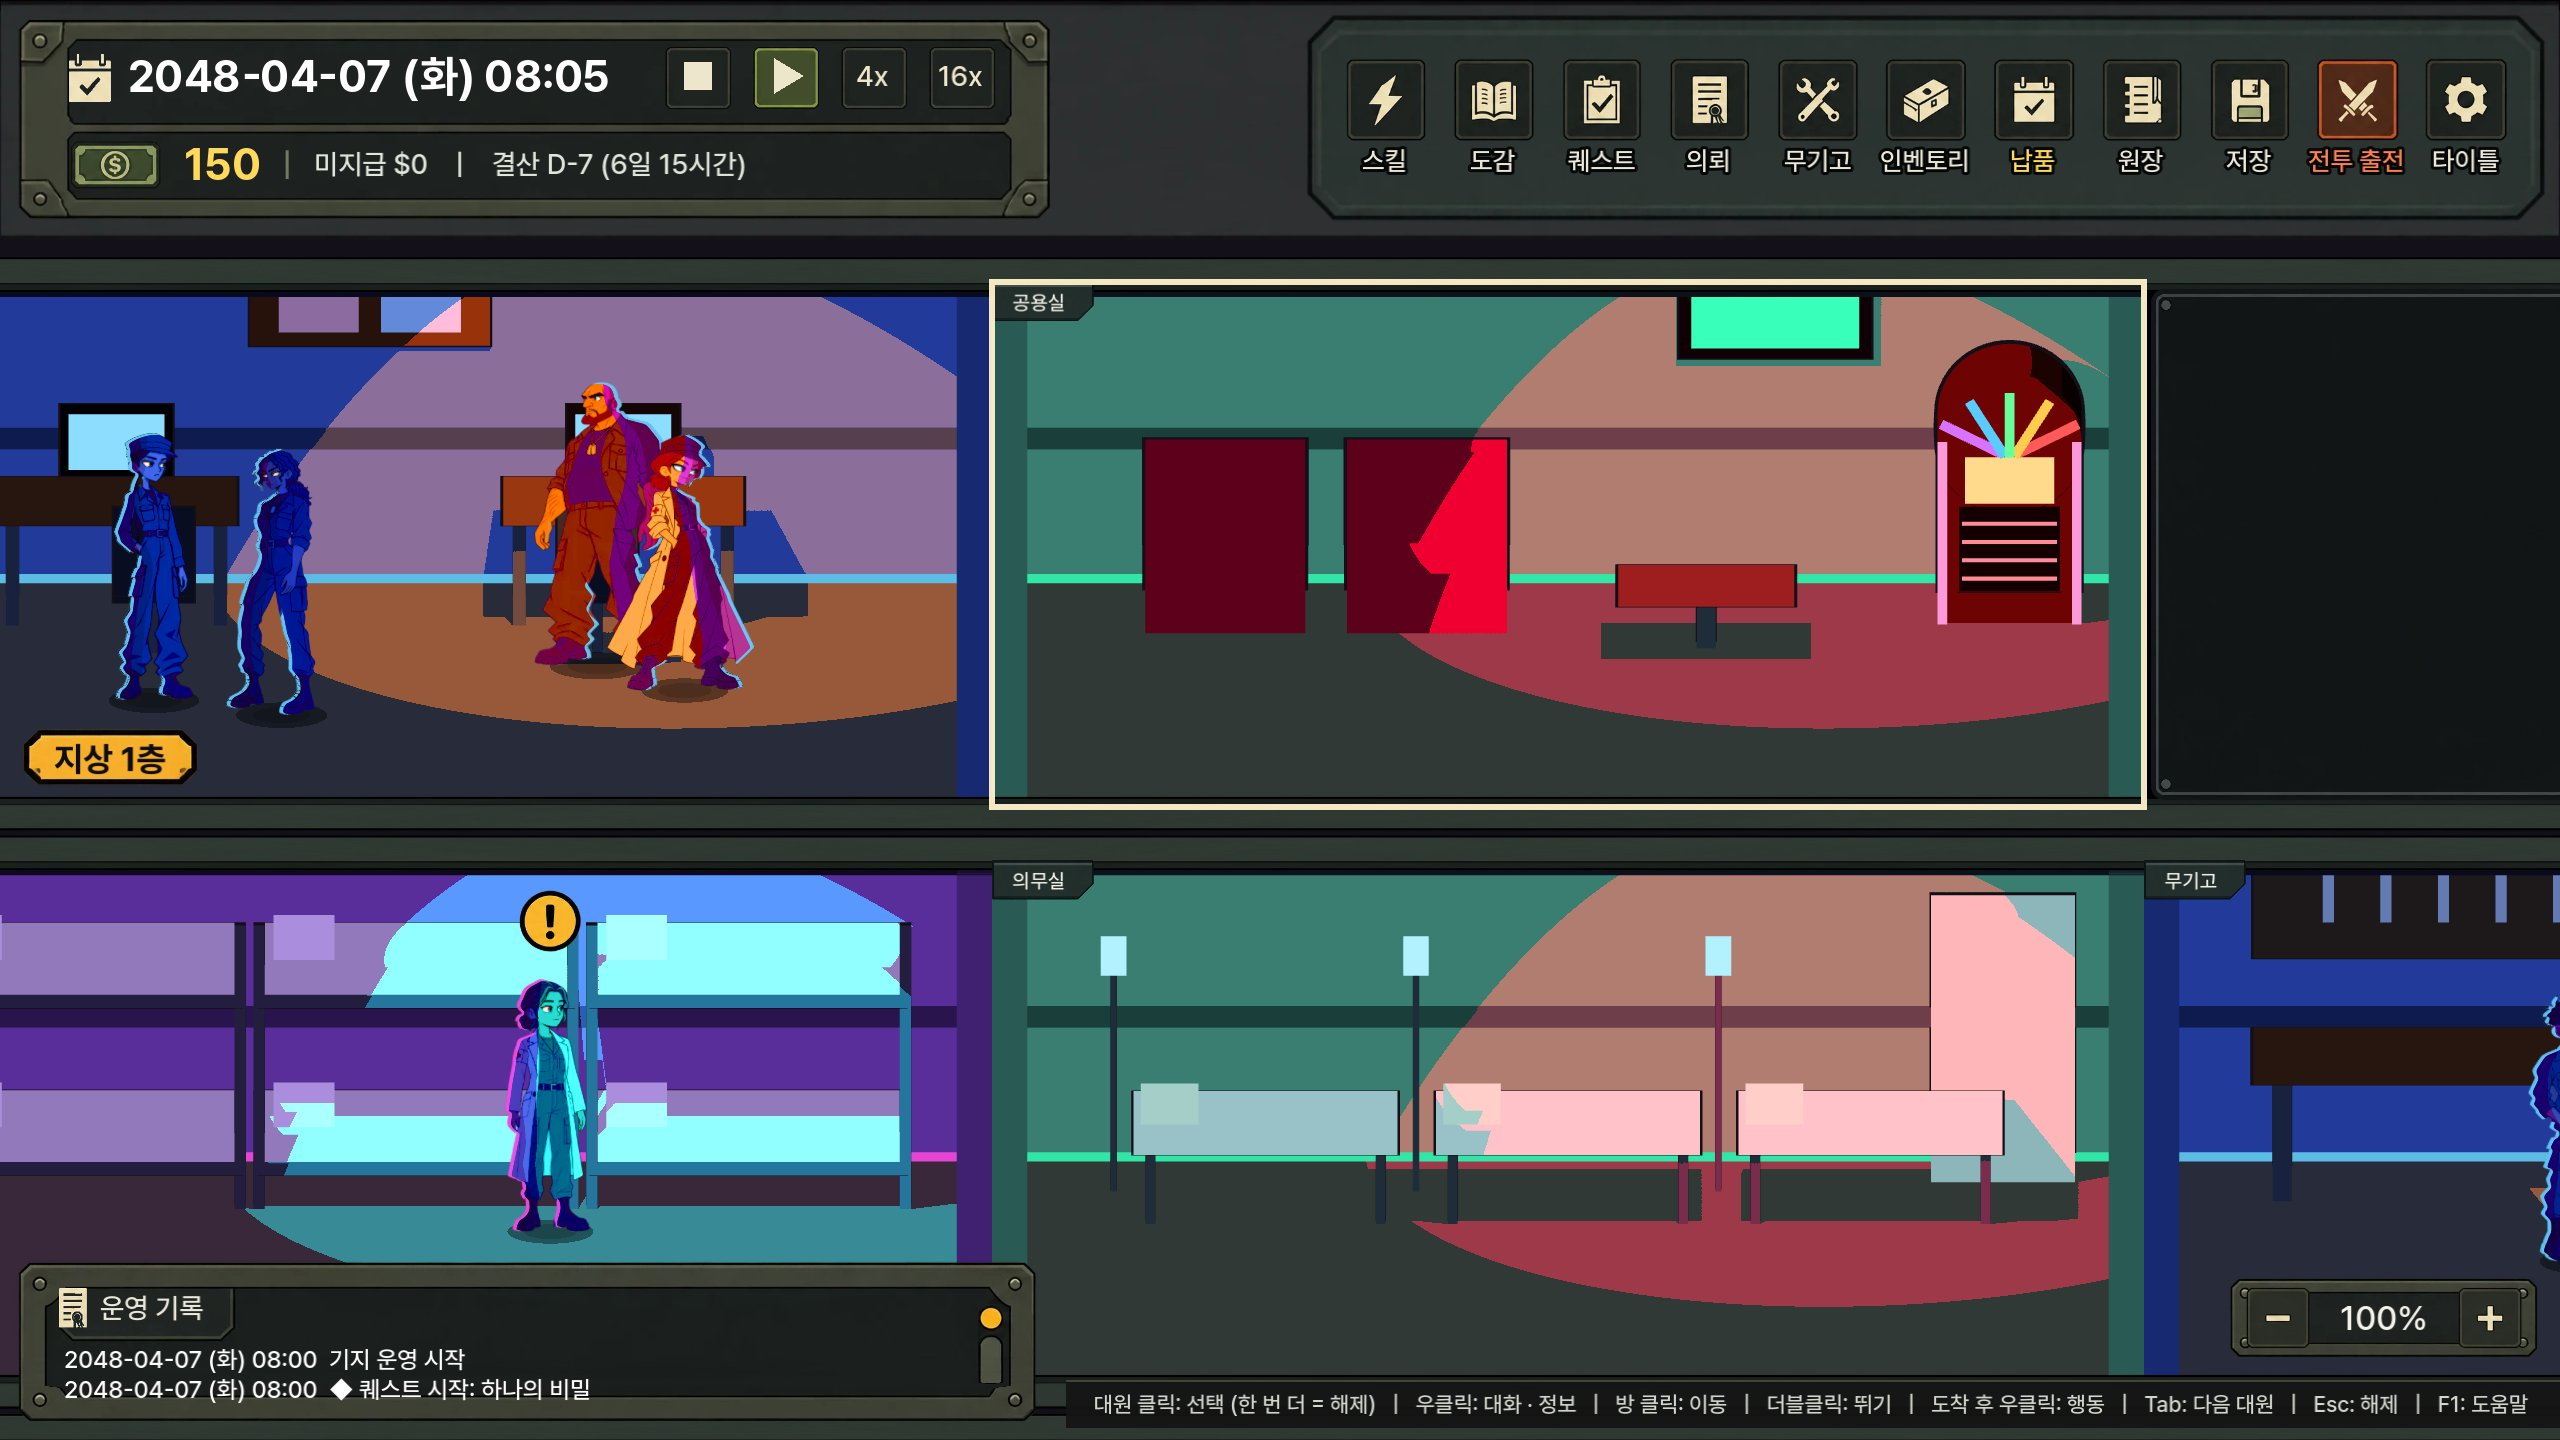
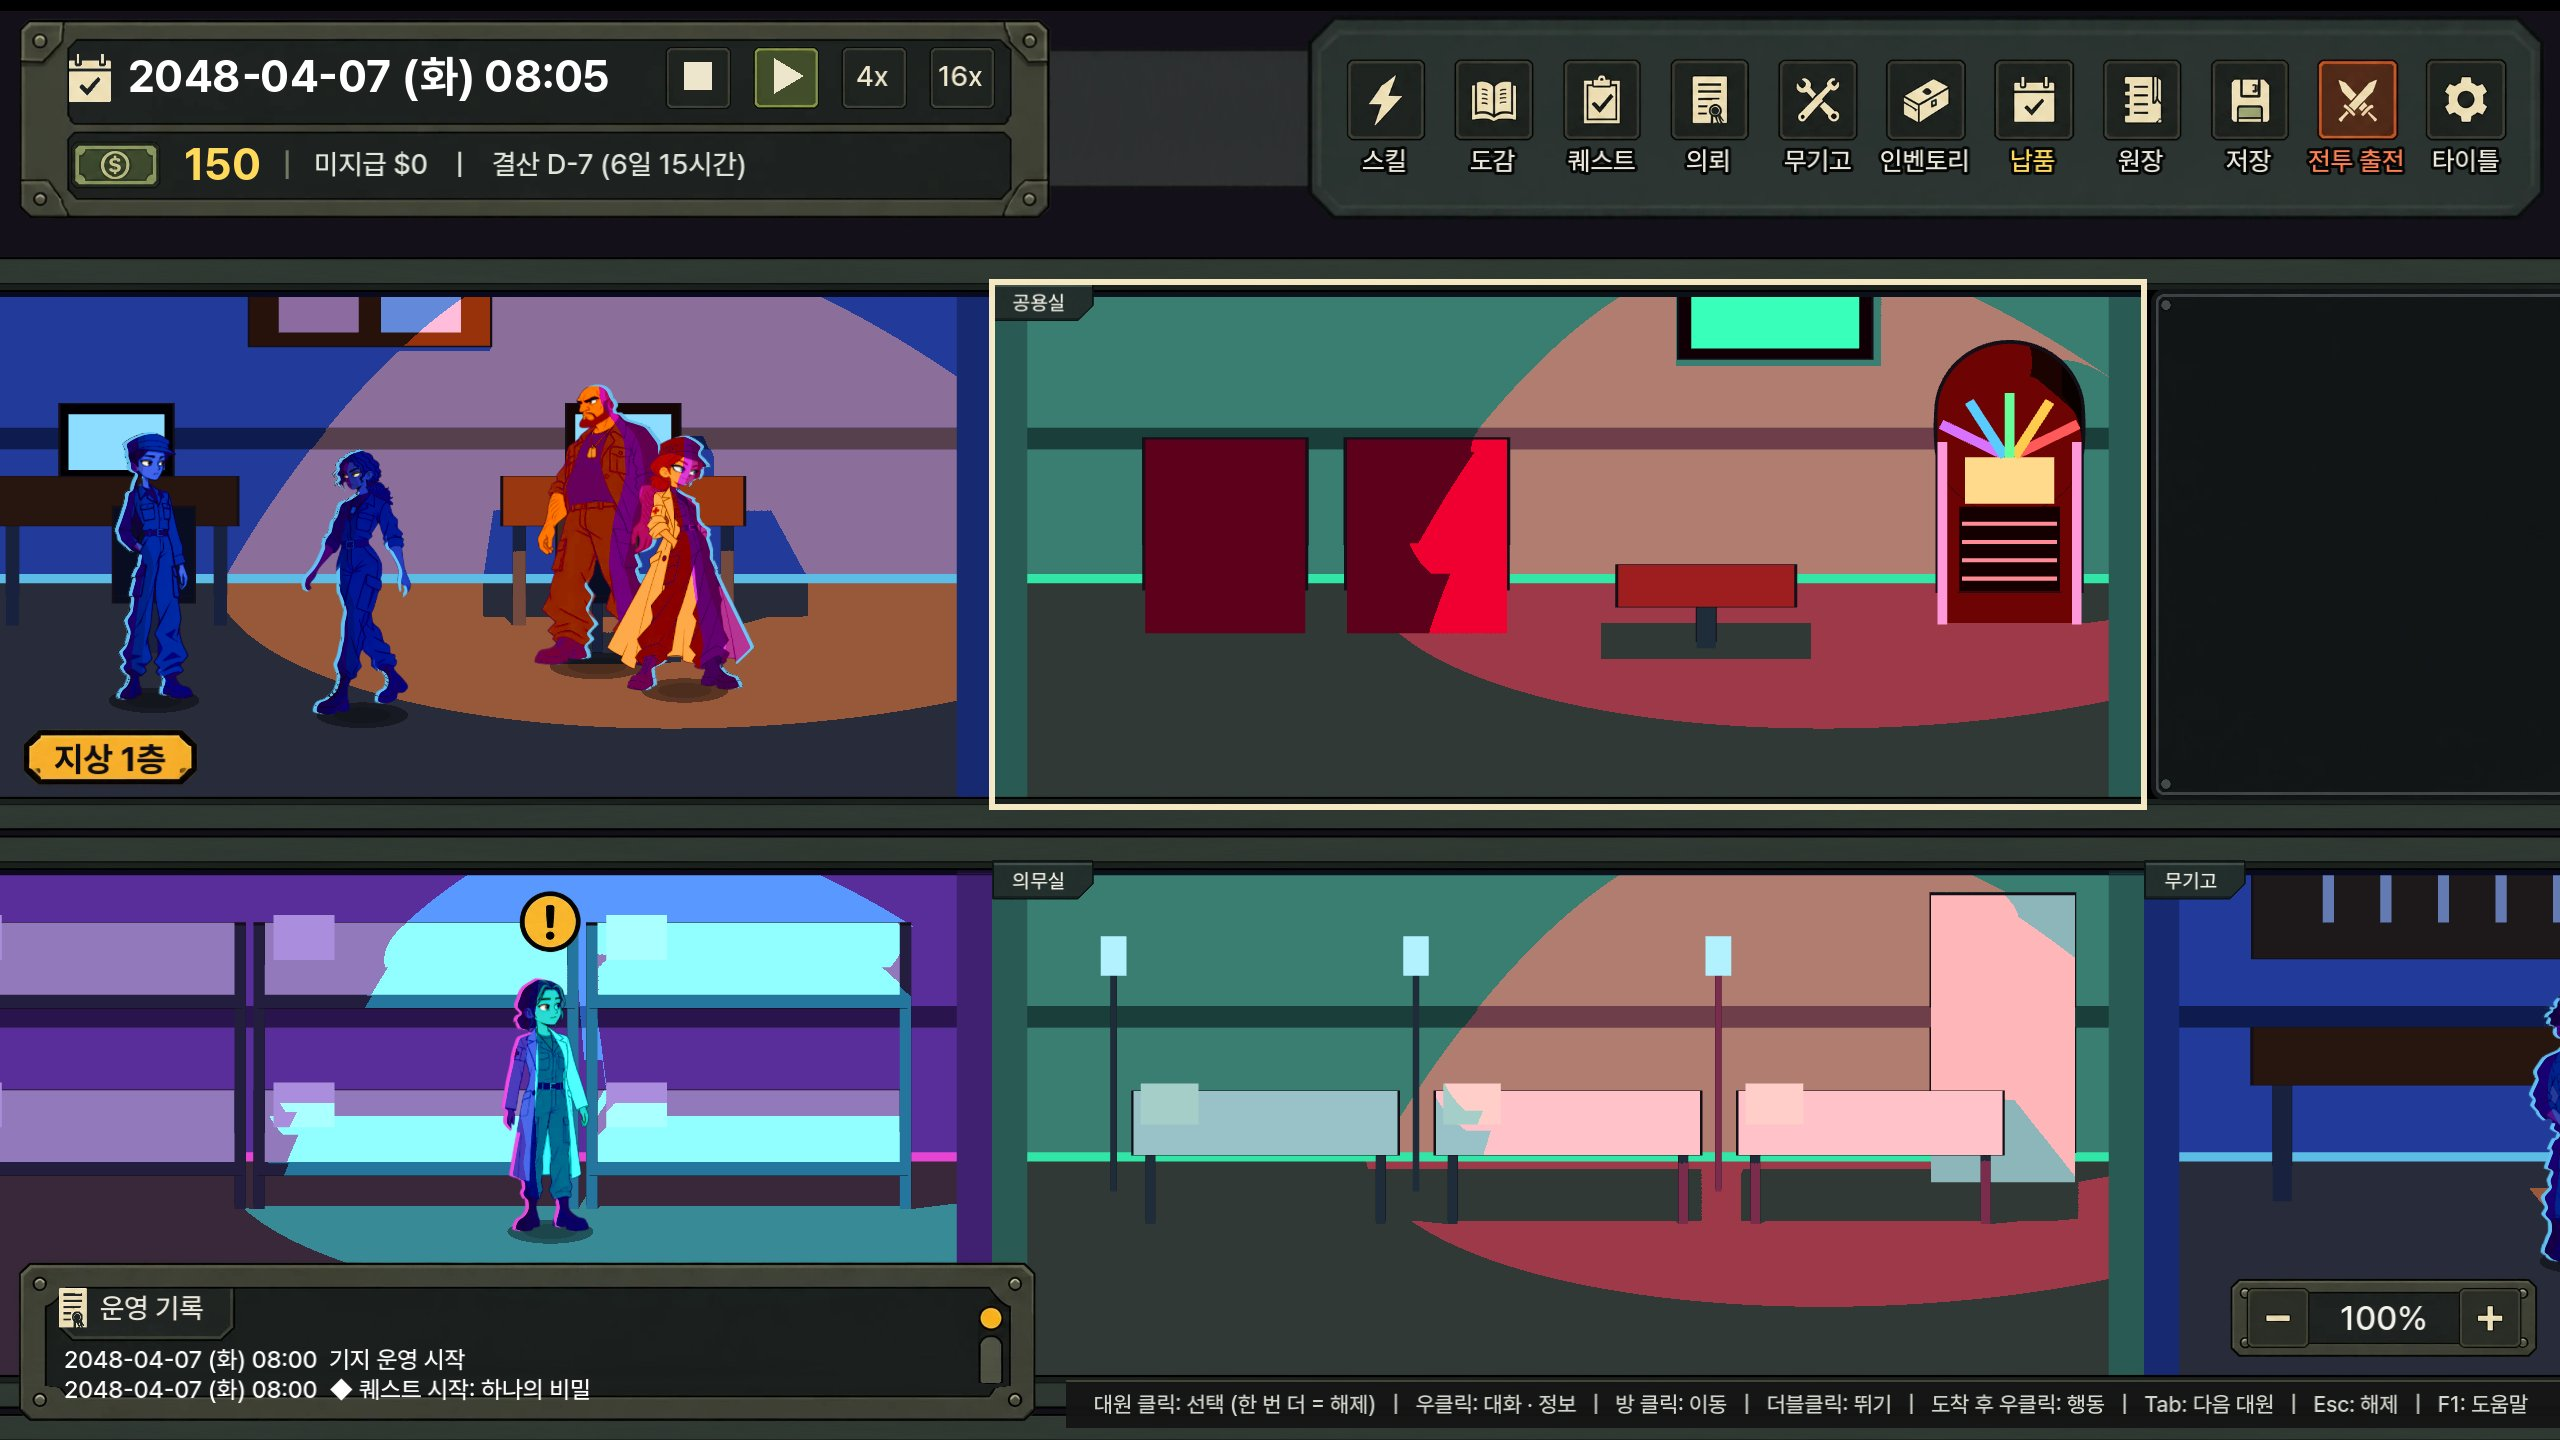
Show the top backing band only between the two top panels
The band now spans just the gap from the date panel's right edge to the
icon panel's left edge (tucked slightly behind both), at the panels'
inner height, following their widths each frame.

Claude-Session: https://claude.ai/code/session_014aytw3hj7boqn3SZ5GP5ti

diff --git a/docs/design/PROTOTYPE_GDD_v1_0.md b/docs/design/PROTOTYPE_GDD_v1_0.md
@@ -4,7 +4,7 @@
 
 ## 0. 현재 구현 반영 (변경될 때마다 갱신)
 > 아래는 원 기획 이후 사용자 결정으로 바뀐 내용. 상세 결정 이력은 `00_decision_log_v1_0.md`, 아트 규격은 `../ui_art_spec.md`.
-> 마지막 갱신: 2026-10-31 (방 이름표 새 그림 · 0.7배)
+> 마지막 갱신: 2026-10-31 (상단 뒤 띠 = 두 패널 사이에만)
 
 - **표현**: 캐릭터 2D **스프라이트 프레임 애니메이션**(**스프라이트 시트** `assets/characters/<id>/<동작>_<칸 수>.png`, 사용자가 제작 — 시트 없는 동작은 기본 그림 한 장. 현재: 하나·니키타·키라·단·이선·앨마 idle(기본 그림 숨쉬기) — 니키타(빨간 머리 의무병 코트)·키라(회색 군복, 최종)·하나(곱슬머리 군복·오른쪽 눈 아래 점, 최종)·앨마(흰 의무 가운)는 새 그림으로 교체되어 예전 걷기·피격·공격 시트는 지움) + 배경 3D(실광원·그림자). Skeleton2D 리그·3D 캐릭터 전환은 제거.
   칠 방식: **전 캐릭터 네온 칠**(선화는 원화 그대로, 면은 원화 밝기대로 조명색으로 덮음 — 어두운 면은 깊은 보라, 밝은 면은 조명색). `character.json` `"style": "classic"` 이면 예전 셀 칠, `"neon_gradient"` 0~1 = 몸 위→아래 색상 그라데이션(기본 끔).
@@ -29,7 +29,7 @@
 - **인간 적군 AU군 거한** (bigman): 근접 거한(키 205cm, HP 120, 방어 3, AI aggressive) [임시]. 모션 9종 + idle · 지침 리깅. 쓰러진 그림(dead)은 이제 몸이 발밑 그림자 위에 놓이게 (몸 두께 30% 아래로).
 - **전투 겹침 정리**: 체력 · AP 칸과 상태 배지는 그 유닛 바로 위 층 (앞줄 캐릭터에 가려짐), 쓰러진 캐릭터는 안 보임. 쓰러진 캐릭터는 살아 있는 캐릭터 뒤 층, 조금 뒤로 물러나 눕고 가운데 열은 몸 두께만큼 더 뒤로 → 쓰러진 몸끼리 안 겹침. 누운 몸 길이는 선 키와 같게 (긴 그림은 작게 그림 — 단 · 하나는 원래 크기 유지).
 - **기지 조작**: 대원 클릭 = 선택, **선택한 대원을 한 번 더 클릭 = 선택 해제** (대화는 우클릭 메뉴). 선택해도 오른쪽 아래 카드는 안 뜸 — **우클릭 → '정보 보기'** 를 누르면 화면 가운데 창 (모든 대원; 전투 대원은 장비 · 스킬 트리 포함). 기지 로그창은 오른쪽 위 모서리 아이콘(UI 패키지 schedule)으로 접기 · 펴기.
-- **기지 UI v2** (사용자 제공 UI 패키지 + 레퍼런스 화면, 원본 art_src/ui/ui_package_v2.webp · ref_outgame_v2.webp): 왼쪽 위 = 두 줄 패널(달력 · 날짜 · 속도 버튼 ■ ▶ 4x 16x — 지금 속도는 초록 / 지폐 · 잔액 | 미지급 | 결산 D-day), 오른쪽 위 = 새 아이콘 타일 11개(전투 출전만 주황) — 뒤에 팔각 어두운 띠 패널(사용자 제공, 날짜 패널과 같은 높이), 층 표시 = 지금 보는 층 금색 태그 · 나머지 어두운 태그, 방 이름 = 사용자 제공 이름 패널(오른쪽 아래만 비스듬히 잘린 어두운 판, 방 왼쪽 위 모서리에 딱 맞춤), 상단 HUD 맨 뒤 = 화면 폭 어두운 띠(사용자 제공), 운영 기록 = 머리 탭 · 스크롤 막대 · 주황 점 패널(2줄, 머리 탭 · 주황 점 = 접기, 접으면 "운영 기록 ▸" 탭), 오른쪽 아래 = − 100% + 패널, 맨 아래 = 조작 안내 띠(| 구분), 머리 위 ! = 노란 동그라미, 카세트 ▲▼ 삼각형. **잠긴 방** = 볼트 달린 검은 패널(사용자 제공, 볼트는 작은 점 크기) 위에 자물쇠 · 해금 비용. **층 테두리** = ui-room (층마다 그 층 방 전체를 감쌈 — 위 · 아래 볼트 띠가 층 사이), 마우스를 올린 방 = 크림색 테두리 (최종 시안 = art_src/ui/ref_outgame_v2.webp). 방 이름표 · 조작 안내 · 기록 줄은 틀 밖으로 안 나감(줄이거나 자름).
+- **기지 UI v2** (사용자 제공 UI 패키지 + 레퍼런스 화면, 원본 art_src/ui/ui_package_v2.webp · ref_outgame_v2.webp): 왼쪽 위 = 두 줄 패널(달력 · 날짜 · 속도 버튼 ■ ▶ 4x 16x — 지금 속도는 초록 / 지폐 · 잔액 | 미지급 | 결산 D-day), 오른쪽 위 = 새 아이콘 타일 11개(전투 출전만 주황) — 뒤에 팔각 어두운 띠 패널(사용자 제공, 날짜 패널과 같은 높이), 층 표시 = 지금 보는 층 금색 태그 · 나머지 어두운 태그, 방 이름 = 사용자 제공 이름 패널(오른쪽 아래만 비스듬히 잘린 어두운 판, 방 왼쪽 위 모서리에 딱 맞춤), 상단 HUD 맨 뒤 = 어두운 띠(사용자 제공) — 날짜 패널과 아이콘 패널 사이 틈에만 보임, 운영 기록 = 머리 탭 · 스크롤 막대 · 주황 점 패널(2줄, 머리 탭 · 주황 점 = 접기, 접으면 "운영 기록 ▸" 탭), 오른쪽 아래 = − 100% + 패널, 맨 아래 = 조작 안내 띠(| 구분), 머리 위 ! = 노란 동그라미, 카세트 ▲▼ 삼각형. **잠긴 방** = 볼트 달린 검은 패널(사용자 제공, 볼트는 작은 점 크기) 위에 자물쇠 · 해금 비용. **층 테두리** = ui-room (층마다 그 층 방 전체를 감쌈 — 위 · 아래 볼트 띠가 층 사이), 마우스를 올린 방 = 크림색 테두리 (최종 시안 = art_src/ui/ref_outgame_v2.webp). 방 이름표 · 조작 안내 · 기록 줄은 틀 밖으로 안 나감(줄이거나 자름).
 - **기지 클릭 판정**: 대원은 **몸 그림의 불투명 픽셀** 어디를 눌러도 선택 (예전 사각형은 상반신을 놓침, 빈 곳은 안 잡힘). 머리 위 **'!' 를 누르면 요청 대화**(수락). **방 빈 곳 우클릭** = 그 방 메뉴 → '정보 보기' = 도감 '기지 시설' 탭의 그 방 (선택한 대원이 그 방에 있으면 대원 행동도 같은 메뉴에).
 - **날짜 속도 버튼** (사용자 제공 그림): 정지 = ■ 버튼, 1배 = ▶ 버튼, 4배 · 16배 = 빈 버튼 + 글자. 지금 속도는 금빛, 나머지는 살짝 어둡게.
 - **배경음악 · 주크박스**: 배경음악 5곡 (`assets/audio/bgm/`, 목록 · 제목 · 음량 `data/bgm.json`), 기지에 들어오면 재생 · 장면이 바뀌어도 이어짐 · 곡이 끝나면 다음 곡. **공용실 오른쪽 주크박스**(대원을 선택하지 않은 상태에서 주크박스 어디든 — 마우스를 올리면 금색 테두리 + '클릭: 음악')를 누르면 **주크박스 바로 왼쪽에 음악 카세트 창**(카메라를 움직여도 따라감)(사용자 제공 그림) — 빈 칸에 지금 곡 제목, 위 ▲ = 이전 곡, 아래 ▼ = 다음 곡. 주크박스를 다시 누르면 닫힘.

diff --git a/docs/design/00_decision_log_v1_0.md b/docs/design/00_decision_log_v1_0.md
@@ -592,6 +592,8 @@
 
 - **2026-10-31 방 이름표 그림 교체 · 0.7배** (사용자): 새 이름 패널 그림(같은 경로 art_src/ui/room_name_panel.webp · plate_room.png 덮어씀), 크기 0.7배 — 높이 29 → 20, 글자 14 → 10 (좁은 방이면 7까지), 그림 배율 0.09 → 0.063.
 
+- **2026-10-31 상단 뒤 띠 범위** (사용자 스샷의 붉은 네모): 화면 폭 전체 → 왼쪽 날짜 패널 오른쪽 끝 ~ 오른쪽 아이콘 패널 왼쪽 끝 사이(양쪽 패널 뒤로 12씩 들어감), 세로는 패널 높이의 가운데 68%. 패널 폭이 바뀌면 매 프레임 따라감.
+
 ## 검증 중 (확정 아님)
 - **배경 3D + 캐릭터 2D 하이브리드** (2026-10-25 적용): 배경은 3D 방을 2D 카메라와 같은 투영으로 렌더, 캐릭터 라이팅은 실제 광원 위치 기준
   (빛 쪽 얼굴·몸을 광원색으로 밝힘 + 빛이 뒤에서 오면 같은 쪽 가장자리 림 + 바닥 그림자). 캐릭터 2D(리그)는 확정 사항 유지. (이전 2D 배경 판은 2026-10-27 제거.)
